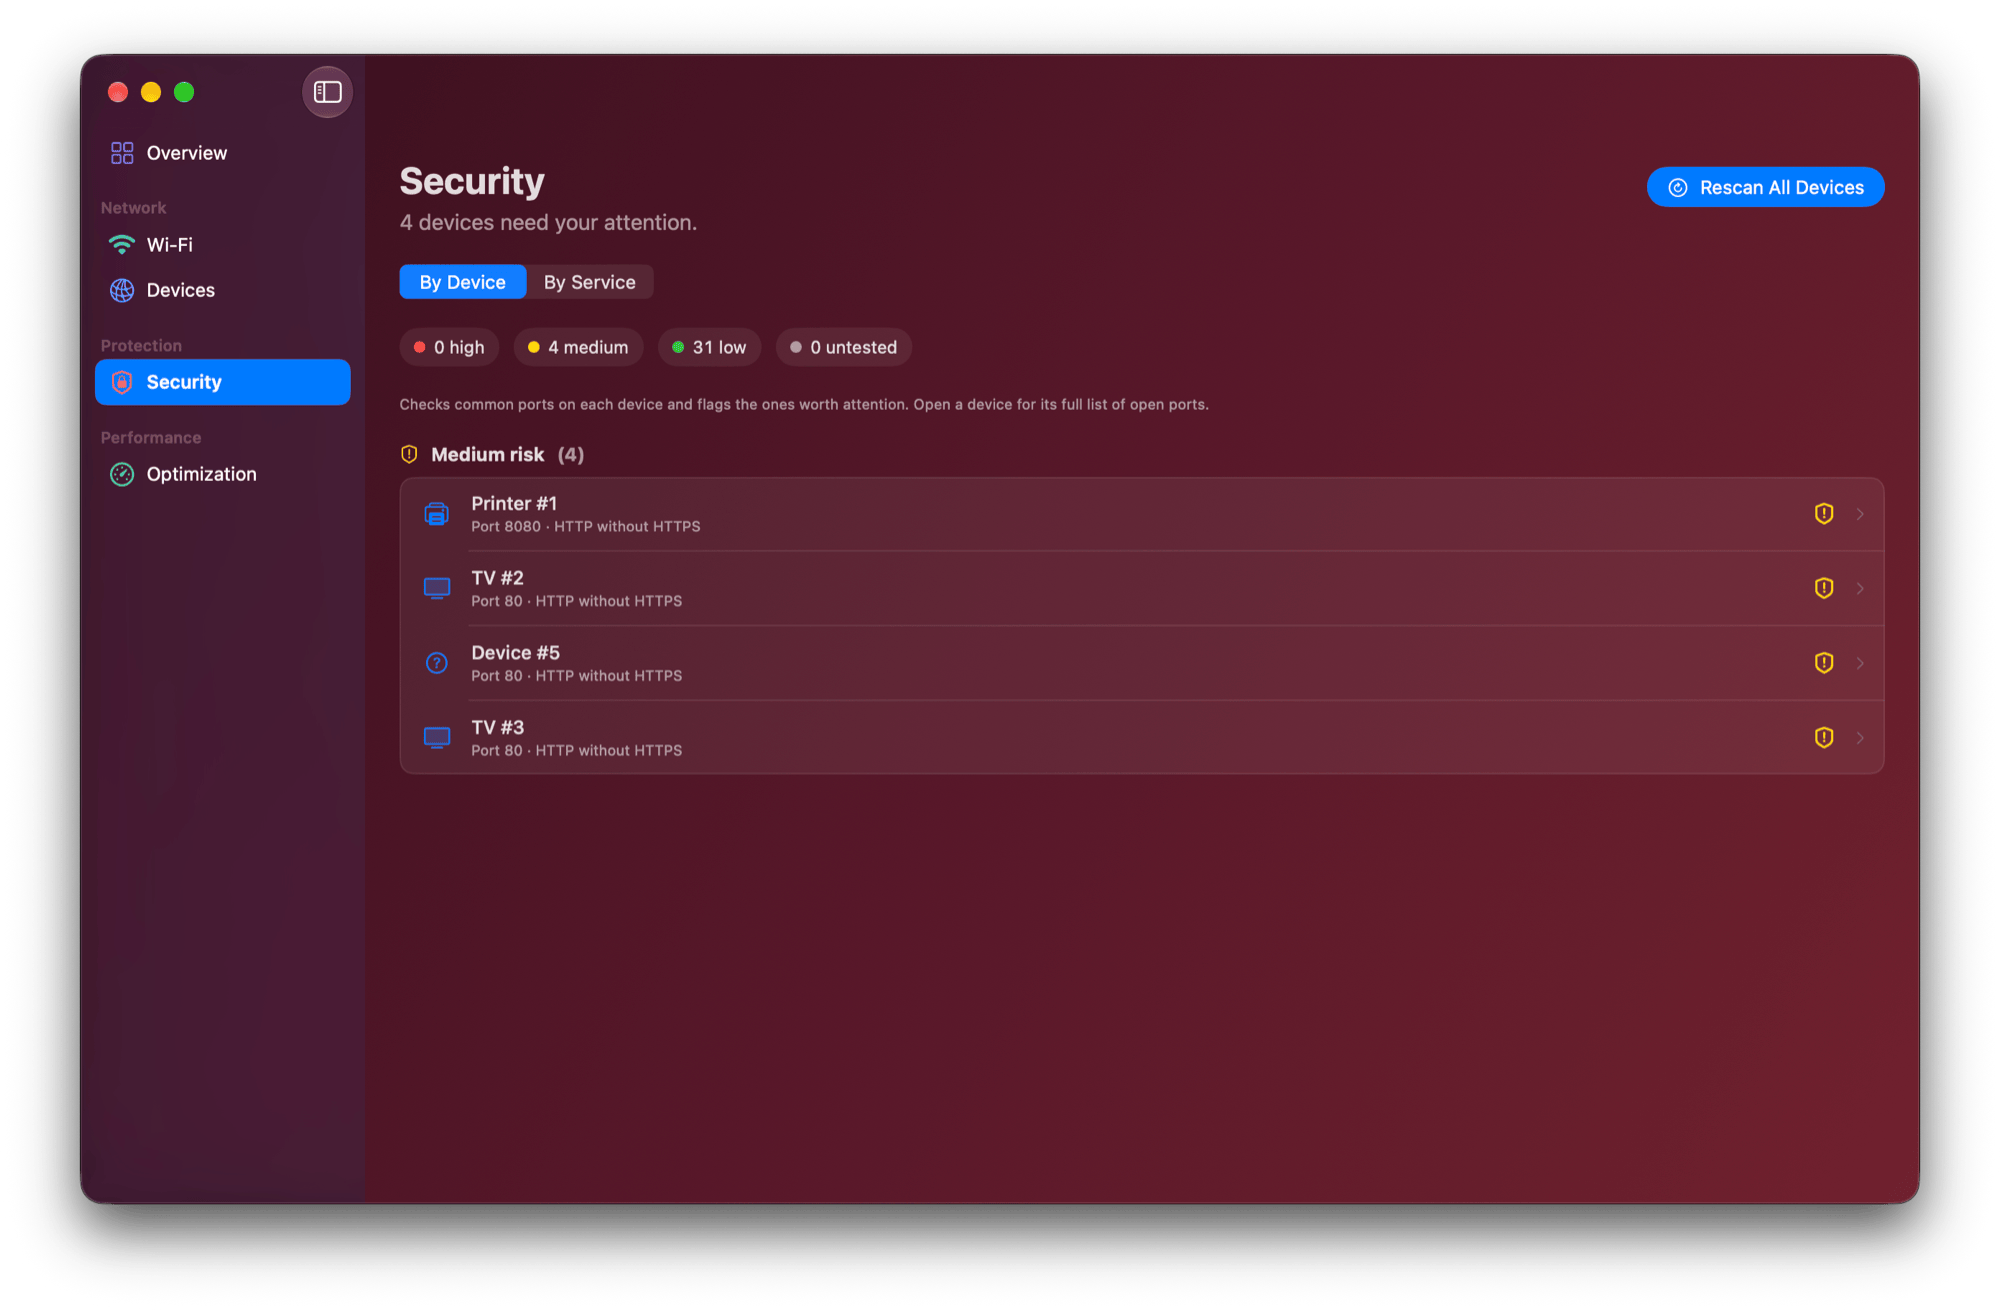
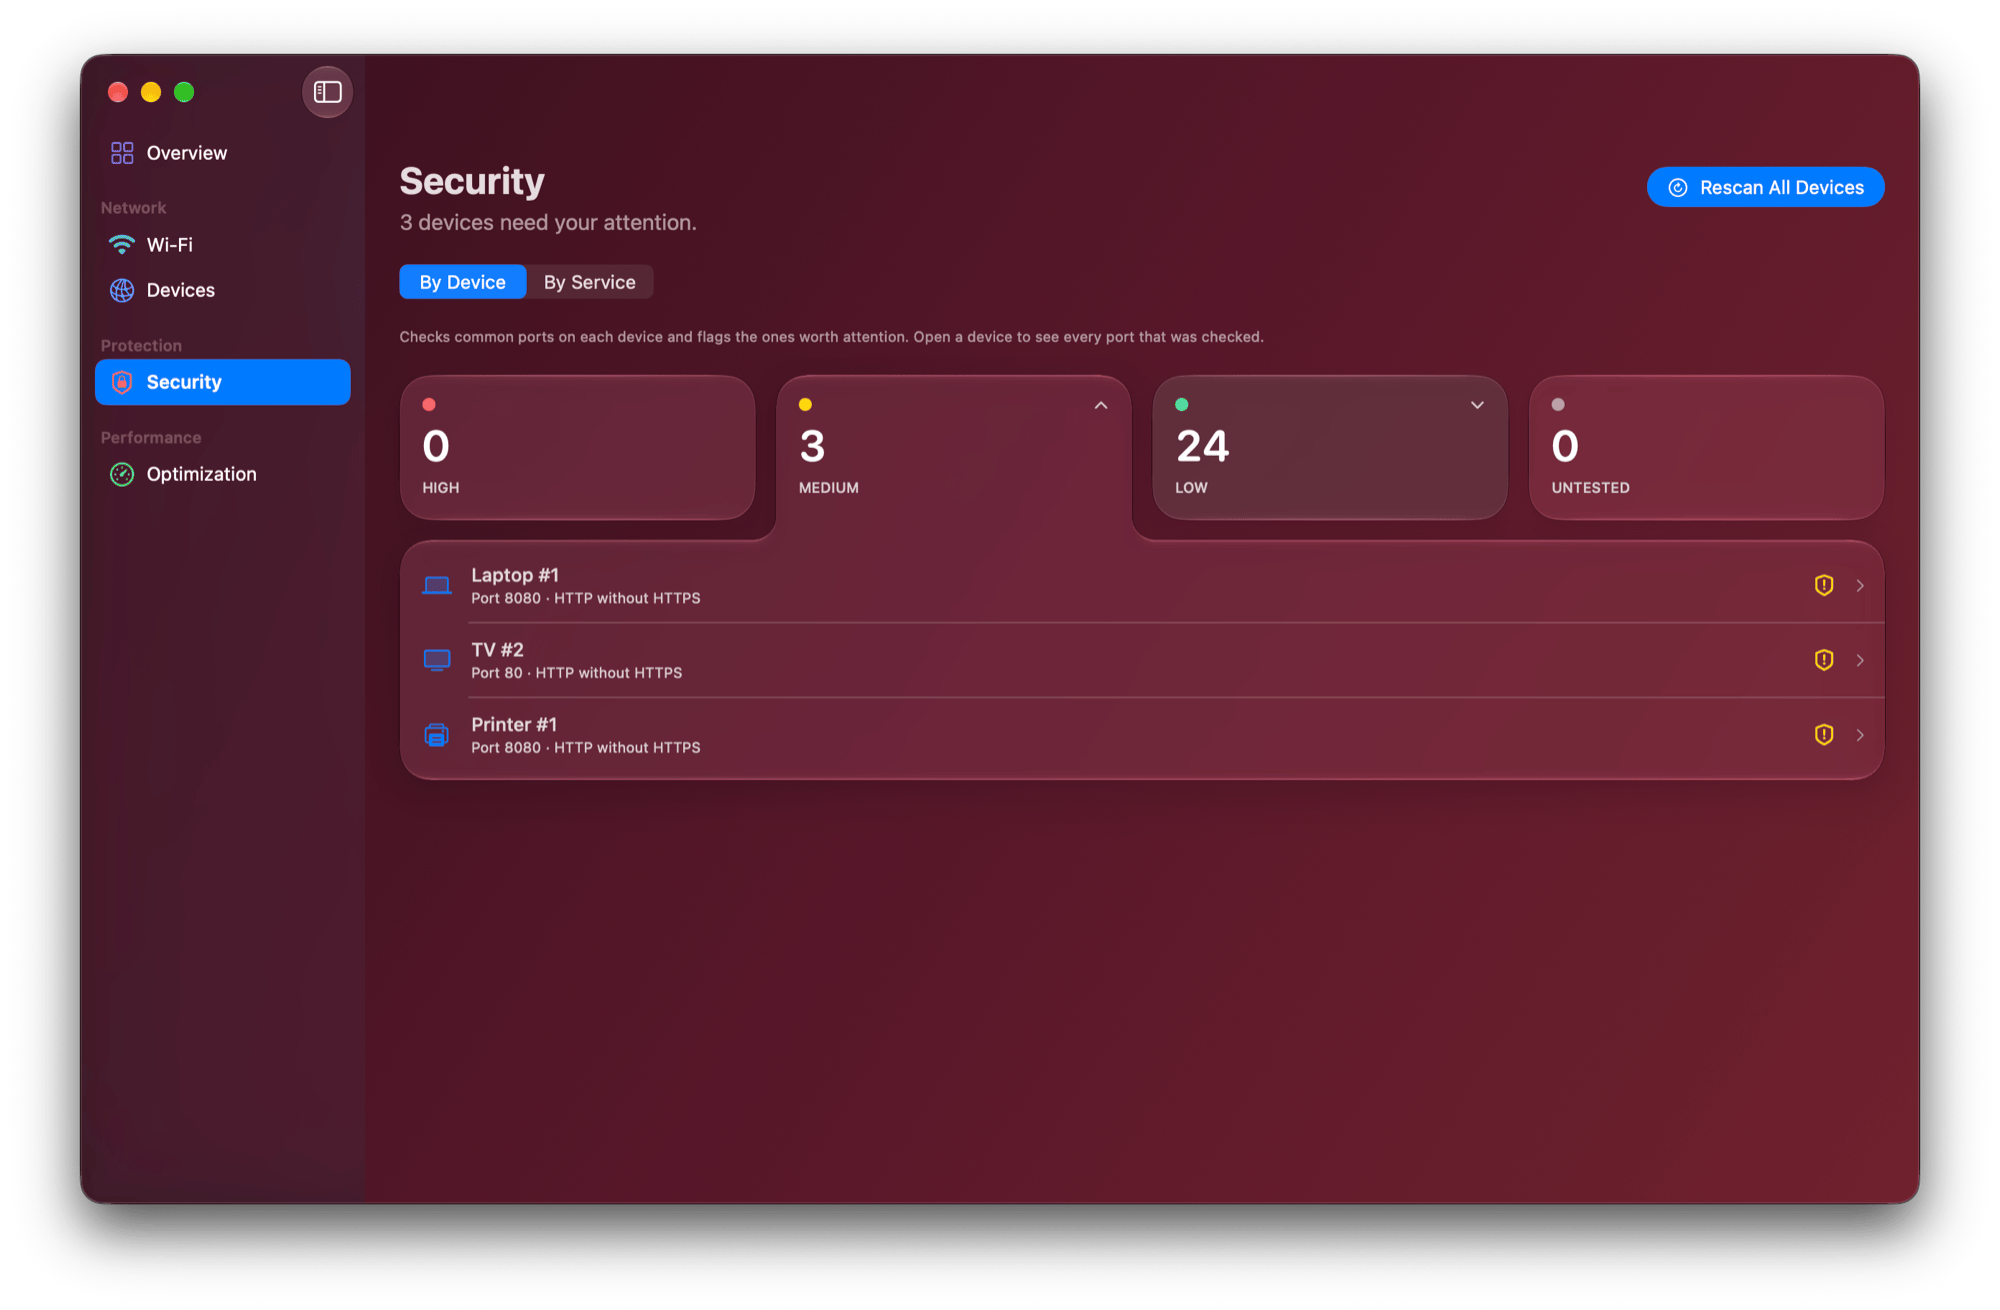
feat(sparkle): publish Netfox v0.50.0 to appcast

diff --git a/public/release-notes/0.50.0.html b/public/release-notes/0.50.0.html
@@ -1,0 +1,113 @@
+<!DOCTYPE html>
+<html lang="en">
+<head>
+<meta charset="utf-8">
+<meta name="viewport" content="width=device-width, initial-scale=1">
+<title>Netfox 0.50.0 — Release Notes</title>
+<style>
+  :root {
+    color-scheme: light dark;
+    --bg: #ffffff;
+    --fg: #1a1a1a;
+    --accent: #f76707;
+    --muted: #6b6b73;
+    --code-bg: #f4f4f5;
+    --border: rgba(0,0,0,0.12);
+  }
+  @media (prefers-color-scheme: dark) {
+    :root {
+      --bg: #1c1c1e;
+      --fg: #ececec;
+      --muted: #9c9ca5;
+      --code-bg: #2c2c2e;
+      --border: rgba(255,255,255,0.14);
+    }
+  }
+  * { box-sizing: border-box; }
+  body {
+    font: 14px/1.55 -apple-system, BlinkMacSystemFont, "SF Pro Text", "Helvetica Neue", sans-serif;
+    color: var(--fg);
+    background: var(--bg);
+    margin: 0 auto;
+    padding: 20px 24px 40px;
+    max-width: 720px;
+  }
+  header.page-header {
+    border-bottom: 1px solid var(--border);
+    padding-bottom: 14px;
+    margin-bottom: 22px;
+  }
+  header.page-header h1 { font-size: 1.7em; margin: 0 0 4px; letter-spacing: -0.02em; }
+  header.page-header .subtitle { color: var(--muted); margin: 0; font-size: 0.92em; }
+  h1, h2, h3, h4 { letter-spacing: -0.01em; margin: 1.5em 0 0.5em; }
+  h1 { font-size: 1.4em; }
+  h2 { font-size: 1.2em; }
+  h3 { font-size: 1em; }
+  a { color: var(--accent); }
+  hr { border: 0; border-top: 1px solid var(--border); margin: 22px 0; }
+  ul, ol { padding-left: 1.4em; }
+  li { margin: 4px 0; }
+  code {
+    font: 0.9em ui-monospace, "SF Mono", Menlo, Consolas, monospace;
+    background: var(--code-bg);
+    padding: 1px 5px;
+    border-radius: 3px;
+  }
+  pre {
+    background: var(--code-bg);
+    padding: 12px 14px;
+    border-radius: 6px;
+    overflow-x: auto;
+    font-size: 0.88em;
+  }
+  pre code { background: transparent; padding: 0; font-size: 1em; }
+  blockquote {
+    margin: 12px 0;
+    padding-left: 12px;
+    border-left: 3px solid var(--border);
+    color: var(--muted);
+  }
+  table { border-collapse: collapse; width: 100%; margin: 12px 0; font-size: 0.95em; }
+  th, td { border: 1px solid var(--border); padding: 6px 10px; text-align: left; }
+  th { background: var(--code-bg); }
+  img { max-width: 100%; }
+</style>
+</head>
+<body>
+<header class="page-header">
+  <h1>Netfox 0.50.0</h1>
+  <p class="subtitle">Release notes</p>
+</header>
+<p>Netfox 0.50.0 makes the Overview and the Security page open in place, and keeps watching your network when the window is closed.</p>
+<h2>Overview</h2>
+<ul>
+<li>The Risk, Devices and Alerts cards open in place: a click shows the devices at risk with what was found on each, the devices online, or the latest alerts. The ↗ arrow in a card's corner takes you to the tool, and every row opens its device, on the Ports tab for a device at risk or an alert about a port.</li>
+<li>The Overview opens on what needs attention: the Risk card when a device is at risk, otherwise the Alerts card when there are alerts.</li>
+</ul>
+<h2>Security</h2>
+<ul>
+<li>The counts by severity are now four cards that open in place, the most serious one already open when you arrive. Low-risk devices finally have a list of their own.</li>
+</ul>
+<h2>Always watching</h2>
+<ul>
+<li>Closing the main window no longer stops discovery, alerts, scheduled port scans or the metrics endpoint: Netfox keeps watching from the menu bar until you quit.</li>
+</ul>
+<h2>Privacy</h2>
+<ul>
+<li>Settings → Privacy now names everything the public IP switch stops: the lookup itself and the Link card's check of the route out.</li>
+<li>Forget all devices also wipes the Wi-Fi samples, and every wipe in Privacy works with the main window closed.</li>
+<li>The automatic update switch shows the setting the updater really uses, and the wipe confirmations are translated.</li>
+</ul>
+<h2>Fixes</h2>
+<ul>
+<li>A USB Ethernet adapter on the driver built into macOS no longer gets a "below its top speed" warning: its top speed can't be read, and the Link card says so.</li>
+<li>This Mac no longer shows 127.0.0.1 as its address.</li>
+<li>A device first seen only by its address no longer leaves a stored row that later sessions can't match.</li>
+</ul>
+<h2>Small things</h2>
+<ul>
+<li>The About window is laid out in two columns that fit a 13-inch screen in every language, with icons on its links and a new link to the community on Discord.</li>
+<li>In Demo Mode, This Mac's ports show invented processes, so a screenshot shows who holds a port without showing what runs on your Mac.</li>
+</ul>
+</body>
+</html>

diff --git a/config/index.ts b/config/index.ts
@@ -87,13 +87,13 @@ export default {
     defaultLanguage: 'en',
   },
   app: {
-    version: '0.29.1',
+    version: '0.50.0',
     // Publication date of `version`, UTC, written by release.sh next to the
     // version itself. It is the OFFLINE FALLBACK for the homepage release
     // strip: the live date and the release count come from the GitHub
     // releases API, and this is what the strip shows when that call is
     // rate-limited or down. Also the JSON-LD `dateModified`.
-    releaseDate: '2026-10-04',
+    releaseDate: '2026-10-12',
     // 15.6, not 15.0: it is the pbxproj MACOSX_DEPLOYMENT_TARGET and the
     // appcast's sparkle:minimumSystemVersion. Only StructuredData reads this,
     // so a wrong value here is invisible on the page and still published to
